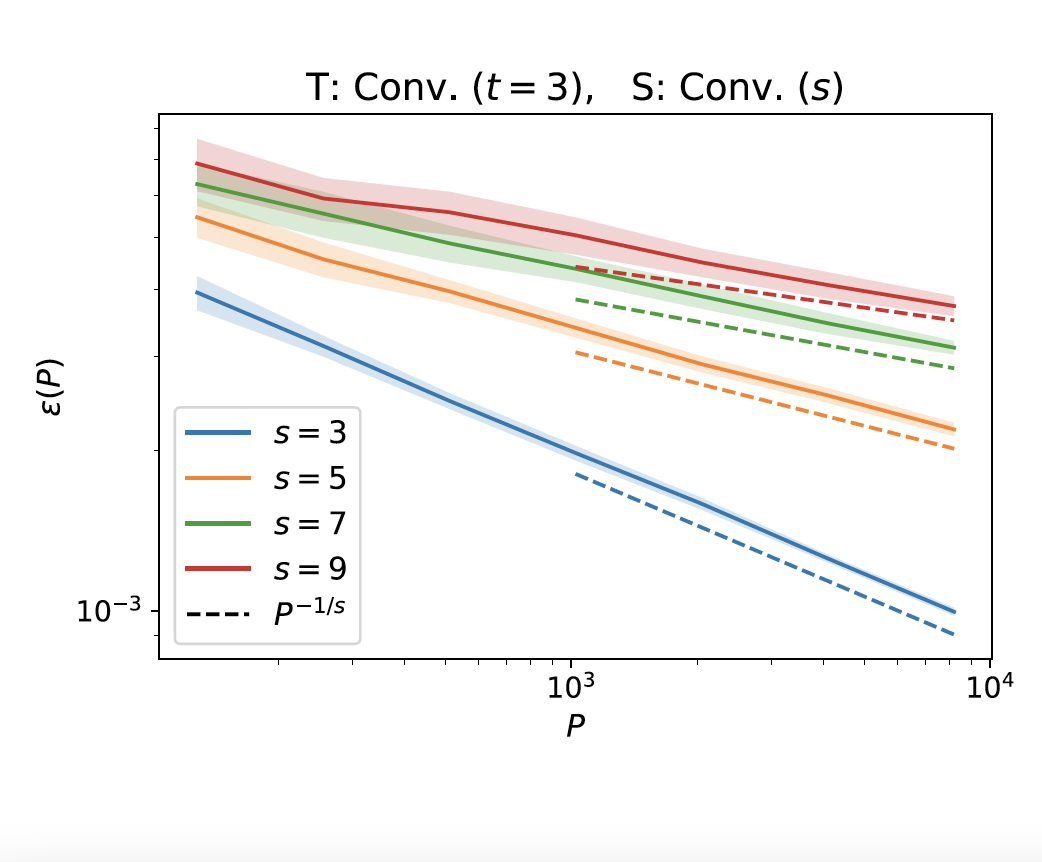
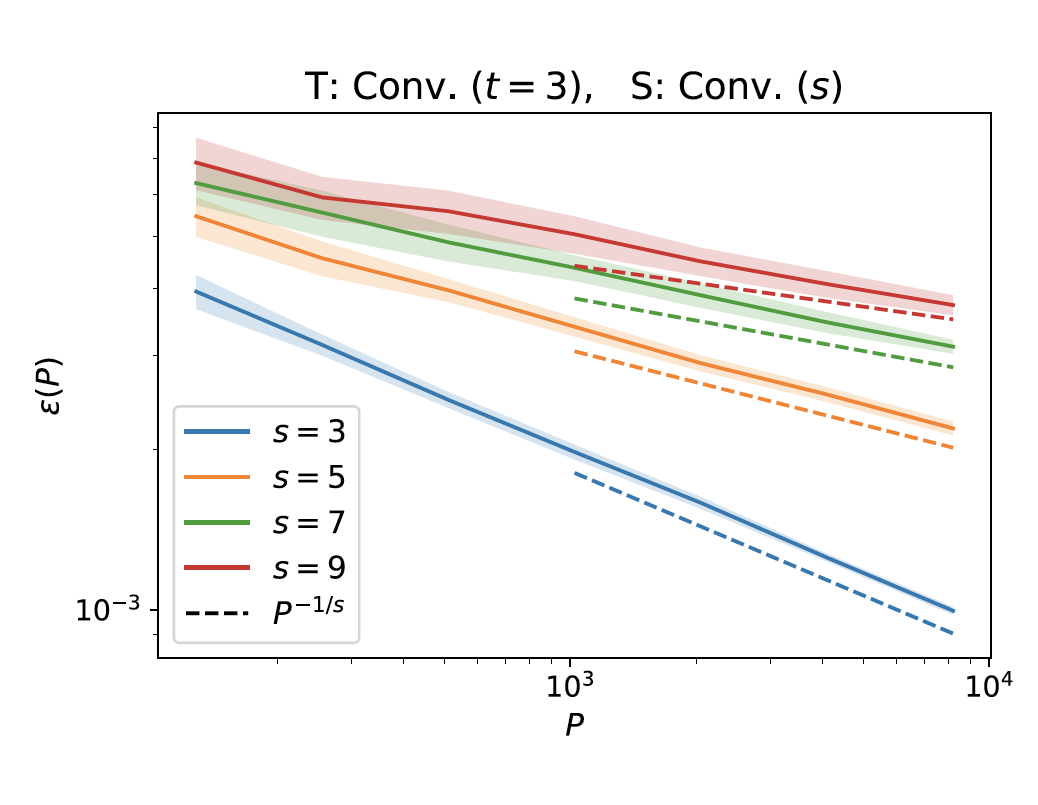
minor style changes

Changed region(s): [[0.0617, 0.0621, 0.9865, 0.8696], [0.0308, 0.4037, 0.0617, 0.528]]

diff --git a/_layouts/bib.html b/_layouts/bib.html
@@ -96,7 +96,13 @@
           <div class="periodical">
             {{ periodical | strip }}
           </div>
+          {%- if entry.repub -%}
+            <div class="periodical">{{entry.repub}}</div>
+          {%- endif -%}
         {%- endif %}
+
+          
+
         
           <!-- Links/Buttons -->
           <div class="links">

diff --git a/_sass/_base.scss b/_sass/_base.scss
@@ -457,7 +457,8 @@ footer.sticky-bottom {
     }
   }
   h2.year {
-    color: var(--global-divider-color);
+    // color: var(--global-divider-color);
+    color: var(--global-divider-color-year);
     border-top: 1px solid var(--global-divider-color);
     padding-top: 1rem;
     margin-top: 2rem;

diff --git a/_sass/_themes.scss b/_sass/_themes.scss
@@ -14,6 +14,7 @@
   --global-footer-link-color: #{$white-color};
   --global-distill-app-color: #{$grey-color};
   --global-divider-color: rgba(0,0,0,.1);
+  --global-divider-color-year: rgba(0,0,0,.2);
   --global-card-bg-color: #{$white-color};
 
   .fa-sun {

diff --git a/_pages/about.md b/_pages/about.md
@@ -2,27 +2,29 @@
 layout: about
 title: about
 permalink: /
-subtitle: PhD Candidate in Statistical Physics and Deep Learning Theory
+subtitle: PhD Candidate @ <a href="https://www.epfl.ch/en/">EPFL</a> in Statistical Physics and Deep Learning Theory
 
 profile:
   align:
   image: prof_pic.jpg
   image_cicular: false # crops the image to make it circular
   address: #>
-    Ocean Beach, San Francisco (CA)
+    # <em>Ocean Beach, San Francisco (CA)</em>
     #<p>Institute of Physics</p>
     #<p>Institute of Electrical and Micro Engineering</p>
     #<p>Swiss Federal Institute of Technology Lausanne (EPFL)</p>
 
 news: true  # includes a list of news items
 selected_papers: false # includes a list of papers marked as "selected={true}"
-social: true  # includes social icons at the bottom of the page
+social: false  # includes social icons at the bottom of the page
 ---
 
-Ciao! I'm Alessandro and I'm a PhD candidate at EPFL in the [Physics of Complex Systems Laboratory](https://www.epfl.ch/labs/pcsl/) and the [Signal Processing Laboratory](https://www.epfl.ch/labs/lts4/), co-advised by Matthieu Wyart and Pascal Frossard.
+Ciao 👋
 
-The goal of my research is to advance the understanding of modern machine learning. I primarily focus on **statistical aspects of deep learning** and the interplay between **data structure** and generalization. In particular, I'm interested in elucidating what structures in real data allow for **efficient learning** in high-dimensions.
+I'm Alessandro and I'm a PhD candidate at EPFL in the [Physics of Complex Systems Laboratory](https://www.epfl.ch/labs/pcsl/) and the [Signal Processing Laboratory](https://www.epfl.ch/labs/lts4/), co-advised by Matthieu Wyart and Pascal Frossard.
+
+The goal of my research is to advance the understanding of modern machine learning. I primarily focus on the *statistical aspects of deep learning* and the interplay between *data structure* and generalization. In particular, I'm interested in elucidating what structures in real data (e.g., symmetries, invariances, scale separation) allow for *efficient learning* in high dimensions.
 
 I enjoy working both studying analytical models and performing numerical experiments.
 
-Before, I completed a joint Master's degree in **theoretical physics** at Sorbonne Université, Politecnico di Torino, SISSA, and ICTP.
+Before, I completed a joint Master's degree in *theoretical physics* at Sorbonne Université, Politecnico di Torino, SISSA, and ICTP.

diff --git a/_news/announcement_2.md b/_news/announcement_2.md
@@ -4,4 +4,4 @@ date: 2022-06-13 00:00:00-0000
 inline: true
 ---
 
-This summer, I'm attending the [Machine Learning Theory Summer School](https://mlschool.princeton.edu/) at Princeton University and the [Summer School on Statistical Physics and Machine Learning](https://www.houches-school-physics.com/program/program-2022/summer-school-on-statistical-physics-and-machine-learning-936972.kjsp?RH=1633080264802) at Les Houches School of Physics :books:
+This summer, I'm attending the [Machine Learning Theory Summer School](https://mlschool.princeton.edu/) at Princeton University and the [Summer School on Statistical Physics and Machine Learning](https://www.houches-school-physics.com/program/program-2022/summer-school-on-statistical-physics-and-machine-learning-936972.kjsp?RH=1633080264802) at Les Houches School of Physics.

diff --git a/_pages/teaching.md b/_pages/teaching.md
@@ -7,7 +7,9 @@ nav: true
 nav_order: 4
 ---
 
-![Teaching](/assets/img/teaching_adobestock.jpg){: width="300" }
+![Teaching](/assets/img/teaching_adobestock.jpg){: width="300" style="border-radius:3%" }
+
+&nbsp;
 
 In 2021-2022, I had fun preparing and teaching the exercise sessions of [Machine Learning for Physicists](https://edu.epfl.ch/coursebook/en/machine-learning-for-physicists-PHYS-467) (taught by Lenka Zdeborova) and teaching PyTorch and deep learning theory in the fall semester of the [Physics Projects](https://www.epfl.ch/schools/sb/sph/en/master/master-in-physics/physics-projects-master-in-physics/) in biological and complex systems physics.
 

diff --git a/_pages/publications.md b/_pages/publications.md
@@ -2,12 +2,15 @@
 layout: page
 permalink: /publications/
 title: publications
-description: Check Google Scholar for the most updated list. * denotes co-first authorship.
+description:
 years: [2022, 2021]
 nav: true
 nav_order: 1
 ---
 <!-- _pages/publications.md -->
+
+Check <a href="https://scholar.google.com/citations?hl=en&user=E0sOorcAAAAJ">Google Scholar</a> for the most updated list. * denotes co-first authorship.
+
 <div class="publications">
 
 {%- for y in page.years %}

diff --git a/_news/announcement_1.md b/_news/announcement_1.md
@@ -4,4 +4,4 @@ date: 2022-04-06 00:00:00-0000
 inline: true
 ---
 
-I'm giving a lightning talk on the locality prior of convolutional networks at the [Workshop on the Theory of Overparameterized Machine Learning](https://topml.rice.edu/) organised by Rice University :smile:
+I'm giving a lightning talk on the locality prior of convolutional networks at the [Workshop on the Theory of Overparameterized Machine Learning](https://topml.rice.edu/) organised by Rice University.
